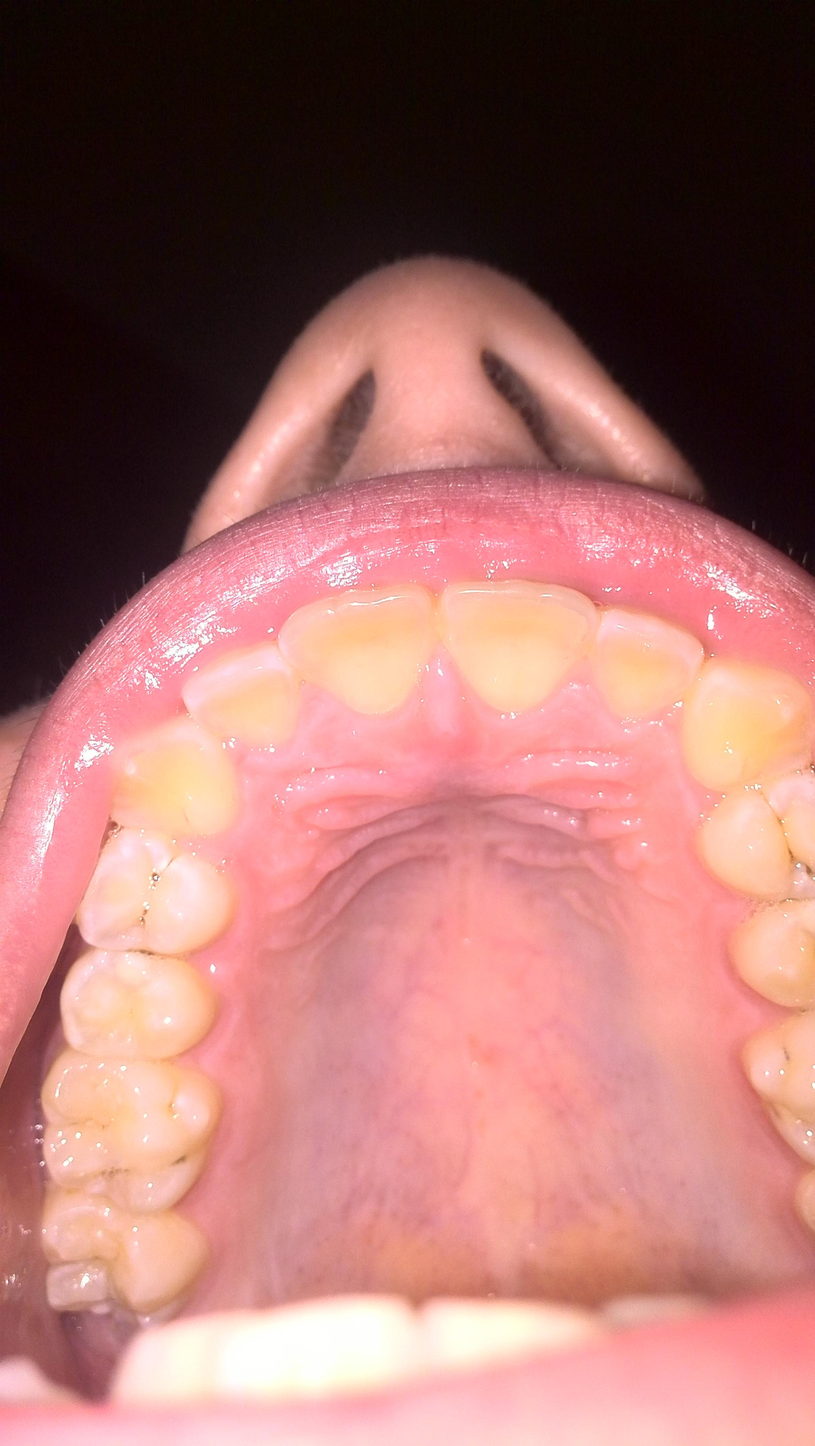
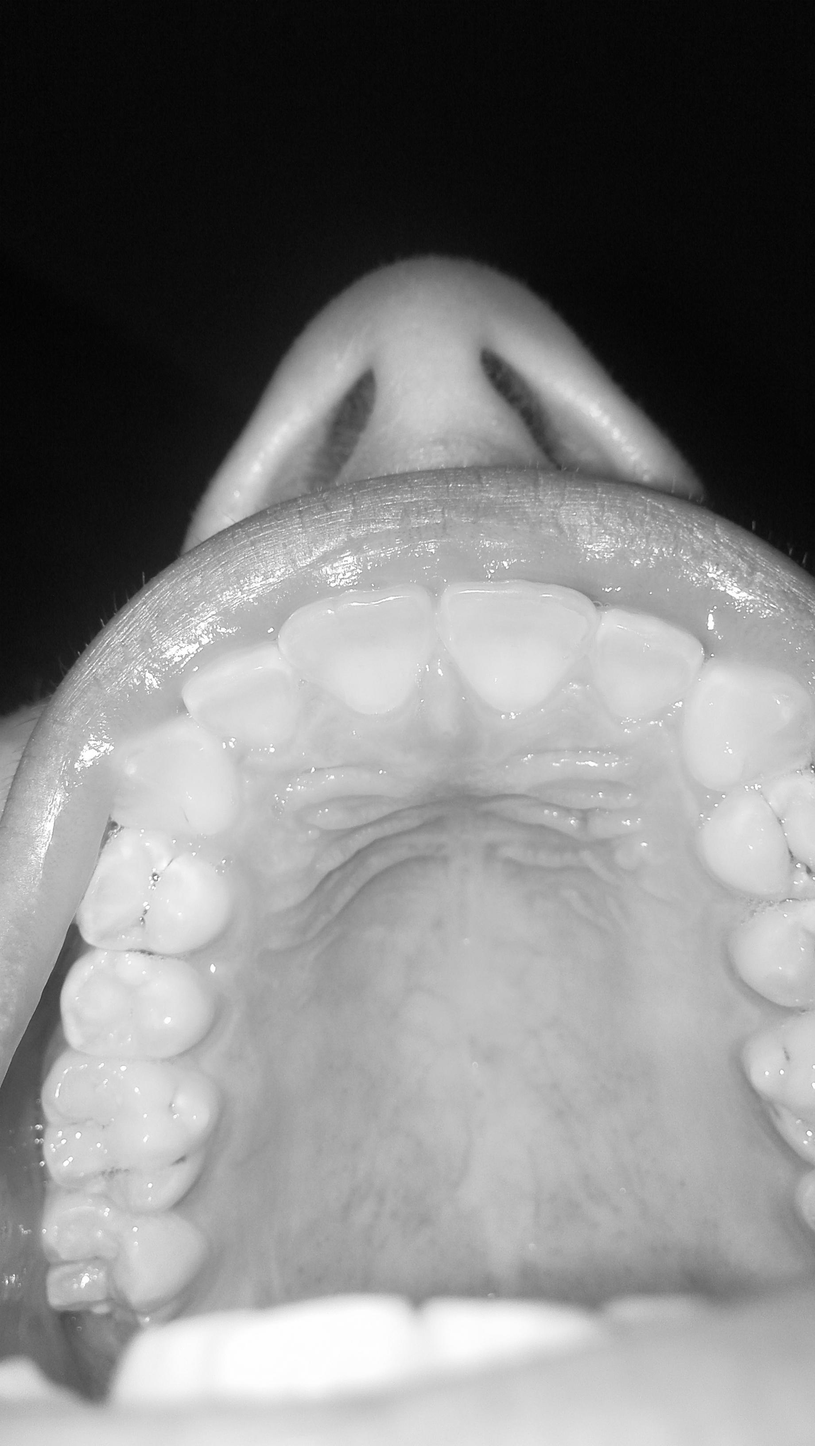
bug and name fix

diff --git a/src/main/java/com/veromeev/bsuir/dip/l1/util/ARGBPixel.java b/src/main/java/com/veromeev/bsuir/dip/l1/util/ARGBPixel.java
@@ -2,13 +2,13 @@ package com.veromeev.bsuir.dip.l1.util;
 
 public class ARGBPixel {
 
-    private byte A, R, G, B;
+    private int A, R, G, B;
 
     public ARGBPixel(int pixel) {
-        this.A = (byte) ((pixel&0xff000000) >> 24);
-        this.R = (byte) (((pixel&0x00ff0000) >> 16) & 0x000000ff);
-        this.G = (byte) (((pixel&0x0000ff00) >> 8) & 0x000000ff);
-        this.B = (byte) (pixel & 0x000000ff);
+        this.A =  (pixel & 0xff000000) >>> 24;
+        this.R =  (pixel & 0x00ff0000) >>> 16;
+        this.G =  (pixel & 0x0000ff00) >>> 8;
+        this.B =   pixel & 0x000000ff;
     }
 
     public ARGBPixel() {
@@ -17,36 +17,36 @@ public class ARGBPixel {
     }
 
     public int getA() {
-        return Conv.btoi(A);
+        return A;
     }
     public void setA(int a) {
         if (a > 0xff) a = 0xff;
         if (a < 0) a = 0;
-        A = Conv.itob(a);
+        A = a;
     }
     public int getR() {
-        return Conv.btoi(R);
+        return R;
     }
     public void setR(int r) {
         if (r > 0xff) r = 0xff;
         if (r < 0) r = 0;
-        R = Conv.itob(r);
+        R = r;
     }
     public int getG() {
-        return Conv.btoi(G);
+        return G;
     }
     public void setG(int g) {
         if (g > 0xff) g = 0xff;
         if (g < 0) g = 0;
-        G = Conv.itob(g);
+        G = g;
     }
     public int getB() {
-        return Conv.btoi(B);
+        return B;
     }
     public void setB(int b) {
         if (b > 0xff) b = 0xff;
         if (b < 0) b = 0;
-        B = Conv.itob(b);
+        B = b;
     }
 
     public void setRGB(int r, int g, int b) {

diff --git a/src/main/java/com/veromeev/bsuir/dip/l1/fxapp/DIP1.java b/src/main/java/com/veromeev/bsuir/dip/l1/fxapp/DIP1.java
@@ -9,6 +9,7 @@ import javafx.scene.layout.StackPane;
 import javafx.scene.layout.VBox;
 import javafx.stage.Stage;
 
+import java.io.File;
 import java.io.IOException;
 import java.util.ArrayList;
 
@@ -16,8 +17,11 @@ public class DIP1 extends Application {
 
     private final String resourcesPath = "./src/main/resources/";
 
+
+
     public static void main(String[] args) {
         launch(args);
+//        System.out.println(m.size());
     }
 
     @Override
@@ -25,8 +29,8 @@ public class DIP1 extends Application {
 
         ARGBImage image = new ARGBImage(resourcesPath + "10.jpg");
 
-        TestInputParameters t = new TestInputParameters();
-        ArrayList<Double> parameters = t.getParameters();
+        GammaCorrectionInputWindow window = new GammaCorrectionInputWindow();
+        ArrayList<Double> parameters = window.getParameters();
 
         BarChart<String, Number> b1 = image.createHistogram("before");
 
@@ -34,7 +38,10 @@ public class DIP1 extends Application {
         double gamma = parameters.get(1);
 
         image.forEach(channel -> (int)(Math.pow((double)channel, gamma) * c));
-
+        image.forEach(pixel -> {
+            final int b = pixel.brightness();
+            pixel.setRGB(b,b,b);
+        });
 
         image.saveImage(resourcesPath + "11.jpg");
 
@@ -43,7 +50,7 @@ public class DIP1 extends Application {
                 {2, 0, -2},
                 {1, 0, -1}
         };
-
+        File f;
         double[][] frame2 = new double[][]{
                 {-1, -2, -1},
                 {0, 0, 0},

diff --git a/src/main/java/com/veromeev/bsuir/dip/l1/fxapp/GammaCorrectionInputWindow.java b/src/main/java/com/veromeev/bsuir/dip/l1/fxapp/GammaCorrectionInputWindow.java
@@ -14,7 +14,7 @@ import javafx.stage.Stage;
 
 import java.util.ArrayList;
 
-public class TestInputParameters {
+public class GammaCorrectionInputWindow {
 
     private ArrayList<Double> parameters = new ArrayList<>();
 
